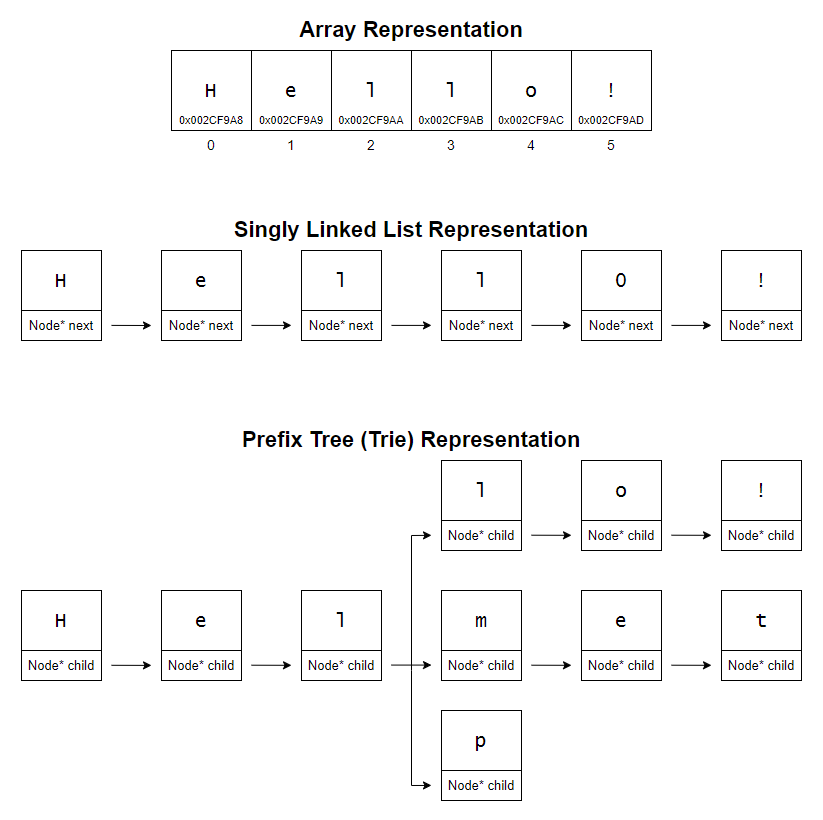
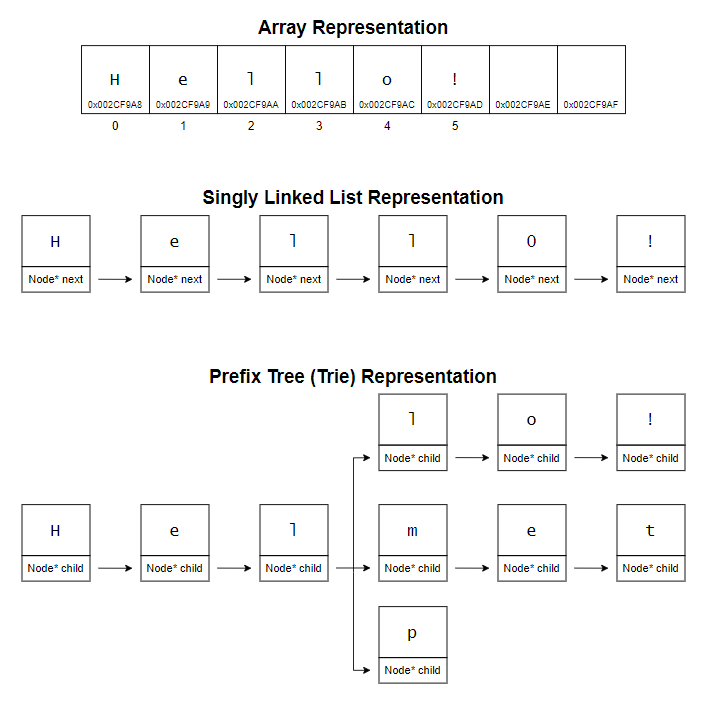
Add 'String': operations access, capacity; Upd: img scale.

diff --git a/DataStructures/String/String.md b/DataStructures/String/String.md
@@ -84,6 +84,26 @@ When working with strings, it's important to note that there is no universal sta
 - `rbegin`, `crbegin` — returns an iterator (or constant one) to the last element.
 - `rend`, `crend` — returns an iterator (or constant one) to the position one before the first element, making range $[rend, rbegin)$ easy for traversal.
 
+---
+<p align="center"><img src="./Images/OperationsAccess.png"/></p>
+
+**Element Access:**
+- `at()` — returns specified element with bounds checking; if element is not within the range of the container, throws an exception.
+- `operator[]` — returns specified element without bounds checking; accessing a nonexistent element through this operator is undefined behavior.
+- `front()` — returns the first element in the container; calling on an empty container causes undefined behavior.
+- `back()` — returns the last element in the container; calling on an empty container causes undefined behavior.
+- `data()` — returns a pointer to the underlying array serving as character storage; the returned pointer is valid only as long as the string is not modified.
+- `c_str()` — returns a pointer to a null-terminated character array with data equivalent to those stored in the string; the returned pointer is valid only as long as the string is not modified.
+
+---
+**Capacity:**
+- `empty()` — returns `true` if container is empty, otherwise `false`.
+- `size()` — returns the number of elements in the container; basically distance from begin to end.
+- `maxSize()` — returns the maximum number of elements the container is able to hold theoretically, if all available memory were dedicated to that single container.
+- `capacity()` — returns the number of elements that can be held in currently allocated storage.
+- `reserve()` — increases the capacity of the string to a value that's greater or equal to given capacity; if given capacity is greater than current, new storage is allocated, otherwise does nothing.
+- `shrinkToFit()` — reduces the capacity to the size of the string.
+
 
 # &#x1F4BB; Implementation 
 Currently in Progress...
